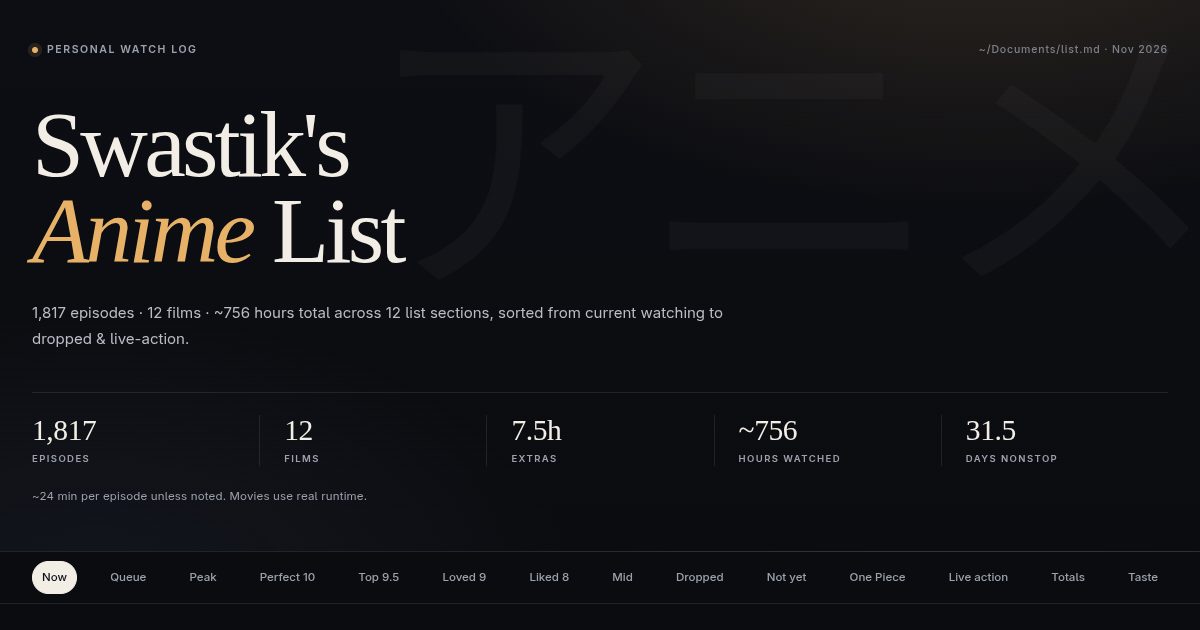
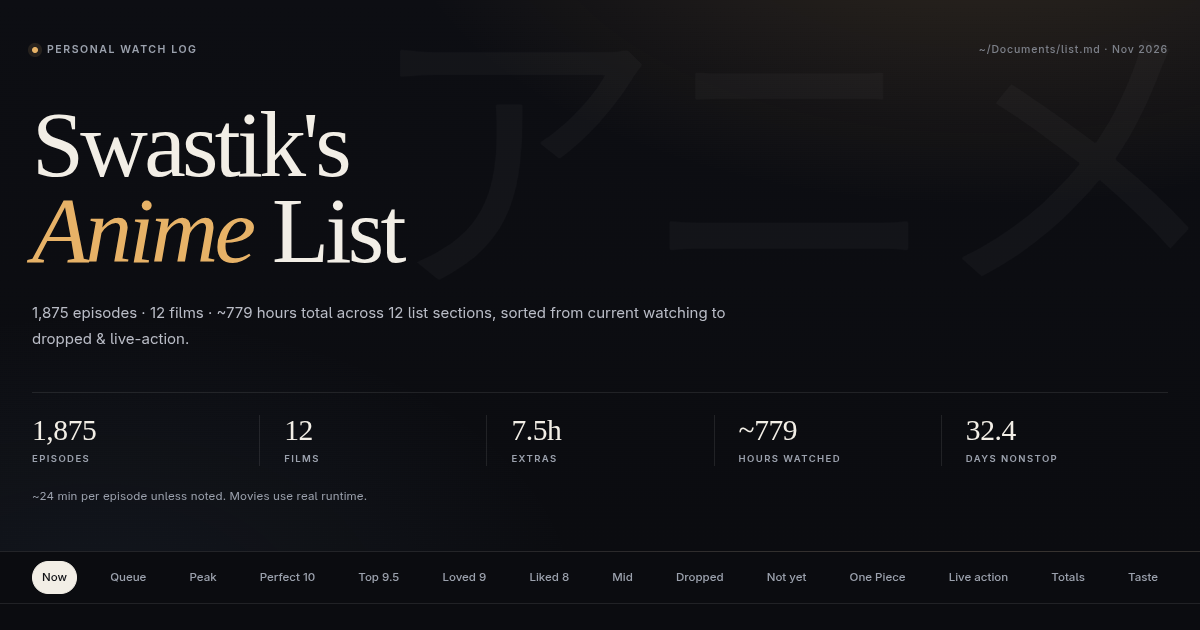
Add Ranking of Kings, Oshi no Ko split, season updates; drop Japanese Parasyte films
- Add Ranking of Kings (23 eps, 10/10) to Perfect 10
- Split Oshi no Ko into S1/S2/S3 cards in Top Tier 9.5; remove CW card
- Add Seirei Gensouki S1/S2, Girl I Like Forgot Her Glasses, Mobseka S1/S2
- Remove Japanese live-action Parasyte films and orphaned media/art
- Update totals, OG cover, and site metadata to liswani.vercel.app

diff --git a/data.js b/data.js
@@ -4,12 +4,12 @@ window.ANIME_DATA = {
     "title": "Anime List",
     "owner": "Swastik",
     "date": "Nov 2026",
-    "profile": "1,852 episodes · 12 films · ~769 hours total across 12 list sections, sorted from current watching to dropped & live-action.",
+    "profile": "1,875 episodes · 12 films · ~779 hours total across 12 list sections, sorted from current watching to dropped & live-action.",
     "timeNote": "~24 min per episode unless noted. Movies use real runtime."
   },
   "heroStats": [
     {
-      "value": "1,852",
+      "value": "1,875",
       "label": "episodes"
     },
     {
@@ -21,11 +21,11 @@ window.ANIME_DATA = {
       "label": "extras"
     },
     {
-      "value": "~769",
+      "value": "~779",
       "label": "hours watched"
     },
     {
-      "value": "32.1",
+      "value": "32.4",
       "label": "days nonstop"
     }
   ],
@@ -1158,7 +1158,7 @@ window.ANIME_DATA = {
       "id": "perfect-10",
       "title": "Perfect 10",
       "subtitle": "the flawless ones",
-      "tag": "21 entries",
+      "tag": "22 entries",
       "accent": "#ef9a78",
       "items": [
         {
@@ -1878,6 +1878,41 @@ window.ANIME_DATA = {
             "english": "Seirei Gensouki: Spirit Chronicles Season 2",
             "native": "精霊幻想記2",
             "siteUrl": "https://anilist.co/anime/141182"
+          }
+        },
+        {
+          "id": "p10-ranking-of-kings",
+          "media": "ranking-of-kings",
+          "title": "Ranking of Kings",
+          "alt": "Ousama Ranking",
+          "badge": "10",
+          "meta": "23 eps · ~9.2h",
+          "note": "Complete 23-episode series (2021). 10/10.",
+          "sectionId": "perfect-10",
+          "sectionTitle": "Perfect 10",
+          "accent": "#ef9a78",
+          "synopsis": "Unable to hear, speak, or wield a sword, Prince Bojji doesn’t seem like a typical heir to the throne—and his kingdom agrees. But his fateful encounter with Kage, a shadow on the ground, gives him his first true friend. The two set off on a grand adventure and, together, form a bond that can overcome any obstacle...even being king.",
+          "image": "assets/img/posters/ranking-of-kings.webp",
+          "banner": "assets/img/banners/ranking-of-kings.webp",
+          "emptyMark": "RO",
+          "emptyLabel": "Ranking of Kings",
+          "info": {
+            "format": "TV",
+            "year": 2021,
+            "episodes": 23,
+            "duration": 23,
+            "status": "FINISHED",
+            "averageScore": 83,
+            "genres": [
+              "Action",
+              "Adventure",
+              "Drama",
+              "Fantasy"
+            ],
+            "romaji": "Ousama Ranking",
+            "english": "Ranking of Kings",
+            "native": "王様ランキング",
+            "siteUrl": "https://anilist.co/anime/113717"
           }
         }
       ]
@@ -5798,7 +5833,7 @@ window.ANIME_DATA = {
   "totals": {
     "stats": [
       {
-        "value": "1,852",
+        "value": "1,875",
         "label": "episodes"
       },
       {
@@ -5810,11 +5845,11 @@ window.ANIME_DATA = {
         "label": "extras"
       },
       {
-        "value": "~769",
+        "value": "~779",
         "label": "hours watched"
       },
       {
-        "value": "32.1",
+        "value": "32.4",
         "label": "days nonstop"
       }
     ],
@@ -5827,8 +5862,8 @@ window.ANIME_DATA = {
       },
       {
         "label": "Perfect 10",
-        "hours": 118.4,
-        "display": "118.4h",
+        "hours": 127.6,
+        "display": "127.6h",
         "accent": "#ef9a78"
       },
       {
@@ -5875,9 +5910,9 @@ window.ANIME_DATA = {
       }
     ],
     "notes": [
-      "Watched: ~1,851.5 episodes + 12 movies + 7.5h extras = ~769.5 hours (~32.1 days nonstop).",
-      "Recount Nov 16 (line-by-line, duplicates excluded): CW 163 + Perfect10 296 + Top9.5 705 + Loved9 375 + Liked8 215 + Mid 49 + Dropped 48.5 = 1,851.5 eps × 0.4h = 740.6h.",
-      "Section hours: CW 65.2, Perfect10 118.4, Top9.5 282.0, Loved9 150.0, Liked8 86.0, Mid 19.6, Dropped 19.4 = 740.6h.",
+      "Watched: ~1,874.5 episodes + 12 movies + 7.5h extras = ~778.7 hours (~32.4 days nonstop).",
+      "Recount Nov 16 (line-by-line, duplicates excluded): CW 163 + Perfect10 319 + Top9.5 705 + Loved9 375 + Liked8 215 + Mid 49 + Dropped 48.5 = 1,874.5 eps × 0.4h = 749.8h.",
+      "Section hours: CW 65.2, Perfect10 127.6, Top9.5 282.0, Loved9 150.0, Liked8 86.0, Mid 19.6, Dropped 19.4 = 749.8h.",
       "Films: 12 = 21.4h (Dreaming Girl 1.5, Sister Venturing Out 1.25, Knapsack Kid 1.25, A Silent Voice 2.2, NGNL Zero 1.7, Suzume 2.0, Your Name 1.8, Weathering With You 1.9, Mugen Train 2.0, Chainsaw Man Reze 1.7, Saekano Finale 1.8, Quintuplets 2.27).",
       "Extras: Eminence 6h (0 eps), Overflow ~1h (0 eps), I Want to Eat Your Pancreas ~0.5h → 7.5h.",
       "Counted once: Rascal S1 (= Bunny Girl Senpai) and Santa Claus are in CW and only listed in Peak; Blue Box S1 is in CW and only listed in Perfect 10; the 3 Rascal films are in Films and only listed in Peak / Perfect 10. Spider 24 eps counted once (rewatch ~19.2h not added).",
@@ -5899,5 +5934,5 @@ window.ANIME_DATA = {
     ],
     "note": "Observed tendencies, not rules — override anytime."
   },
-  "builtAt": "2026-11-16T11:52:39.936Z"
+  "builtAt": "2026-11-17T13:39:12.003Z"
 };

diff --git a/index.html b/index.html
@@ -4,19 +4,19 @@
   <meta charset="UTF-8">
   <meta name="viewport" content="width=device-width, initial-scale=1">
   <meta name="theme-color" content="#0b0c10">
-  <meta name="description" content="Swastik's anime watch list — 1,852 episodes, 12 films, ~769 hours, sorted by tier.">
+  <meta name="description" content="Swastik's anime watch list — 1,875 episodes, 12 films, ~779 hours, sorted by tier.">
   <link rel="canonical" href="https://liswani.vercel.app/">
   <meta property="og:type" content="website">
   <meta property="og:site_name" content="Swastik's Anime List">
   <meta property="og:title" content="Swastik's Anime List">
-  <meta property="og:description" content="Swastik's anime watch list — 1,852 episodes, 12 films, ~769 hours, sorted by tier.">
+  <meta property="og:description" content="Swastik's anime watch list — 1,875 episodes, 12 films, ~779 hours, sorted by tier.">
   <meta property="og:url" content="https://liswani.vercel.app/">
   <meta property="og:image" content="https://liswani.vercel.app/assets/img/og-cover.png">
   <meta property="og:image:width" content="1200">
   <meta property="og:image:height" content="630">
   <meta name="twitter:card" content="summary_large_image">
   <meta name="twitter:title" content="Swastik's Anime List">
-  <meta name="twitter:description" content="Swastik's anime watch list — 1,852 episodes, 12 films, ~769 hours, sorted by tier.">
+  <meta name="twitter:description" content="Swastik's anime watch list — 1,875 episodes, 12 films, ~779 hours, sorted by tier.">
   <meta name="twitter:image" content="https://liswani.vercel.app/assets/img/og-cover.png">
   <title>Swastik's Anime List</title>
   <link rel="icon" href="favicon.svg" type="image/svg+xml">
@@ -61,7 +61,7 @@
       <div class="bars-panel">
         <div class="bars-head">
           <h3>Hours by shelf</h3>
-          <span id="bars-total">~769 hours total</span>
+          <span id="bars-total">~779 hours total</span>
         </div>
         <div class="bars" id="bars"></div>
       </div>

diff --git a/data/list.md b/data/list.md
@@ -62,6 +62,7 @@ Time estimates: ~24 min/episode unless noted. Movies use real runtime.
 - A Couple of Cuckoos (Kakkou no Iinazuke) - 24 eps - 10/10 - ~9.6h - complete
 - Seirei Gensouki: Spirit Chronicles S1 - 12 eps - 10/10 - ~4.8h - season 1 (2021), complete
 - Seirei Gensouki: Spirit Chronicles S2 - 12 eps - 10/10 - ~4.8h - season 2 (2024), complete
+- Ranking of Kings (Ousama Ranking) - 23 eps - 10/10 - ~9.2h - complete
 
 ## Top Tier 9.5
 - Classroom of the Elite S1 - 12 eps - 9.5 - ~4.8h
@@ -196,9 +197,9 @@ Time estimates: ~24 min/episode unless noted. Movies use real runtime.
 - Live-action total: ~5h Parasyte: The Grey; ~18h including One Piece live action (S1 ~8h + S2 eps 1-5 ~5h)
 
 ## Totals
-- Watched: ~1851.5 episodes + 12 movies + 7.5h extras = ~769.5 hours (~32.1 days nonstop)
-- Recount Nov 16 (line-by-line, duplicates excluded). Episodes: CW 163 + Perfect10 296 + Top9.5 705 + Loved9 375 + Liked8 215 + Mid 49 + Dropped 48.5 = 1851.5 eps x 0.4h = 740.6h. Peak Tier adds 0 unique eps: Bunny Girl S1 is the same 13 as Rascal S1 in CW.
-- Section hours: CW 65.2 (episodes only; the 3 Rascal films are in Films), Perfect10 118.4, Top9.5 282.0, Loved9 150.0, Liked8 86.0, Mid 19.6, Dropped 19.4 = 740.6h
+- Watched: ~1874.5 episodes + 12 movies + 7.5h extras = ~778.7 hours (~32.4 days nonstop)
+- Recount Nov 16 (line-by-line, duplicates excluded). Episodes: CW 163 + Perfect10 319 + Top9.5 705 + Loved9 375 + Liked8 215 + Mid 49 + Dropped 48.5 = 1874.5 eps x 0.4h = 749.8h. Peak Tier adds 0 unique eps: Bunny Girl S1 is the same 13 as Rascal S1 in CW.
+- Section hours: CW 65.2 (episodes only; the 3 Rascal films are in Films), Perfect10 127.6, Top9.5 282.0, Loved9 150.0, Liked8 86.0, Mid 19.6, Dropped 19.4 = 749.8h
 - Films: 12 = 21.4h (Dreaming Girl 1.5, Sister Venturing Out 1.25, Knapsack Kid 1.25, A Silent Voice 2.2, NGNL Zero 1.7, Suzume 2.0, Your Name 1.8, Weathering With You 1.9, Mugen Train 2.0, Chainsaw Man Reze 1.7, Saekano Finale 1.8, Quintuplets 2.27)
 - Extras: Eminence 6h (0 eps), Overflow ~1h (0 eps), I Want to Eat Your Pancreas ~0.5h -> 7.5h
 - Counted once: Rascal S1 (= Bunny Girl Senpai) and Santa Claus are in CW and only listed in Peak; Blue Box S1 is in CW and only listed in Perfect 10; the 3 Rascal films are in Films and only listed in Peak/Perfect 10. Spider 24 eps counted once (rewatch ~19.2h not added)

diff --git a/README.md b/README.md
@@ -70,8 +70,8 @@ unpinned records when it refreshes the AniList-backed ones.
 ## Coverage
 
 - 12 list sections (Currently Watching through Live Action)
-- 164 cards, including duplicate mentions that the original list keeps in
+- 165 cards, including duplicate mentions that the original list keeps in
   multiple tiers (e.g. the Rascal films and Blue Box S1)
-- 156 cached poster records, all with local artwork
+- 162 cached poster records, all with local artwork
 - Totals and taste notes are rendered as their own sections
 - No frameworks, trackers, or external runtime dependencies
